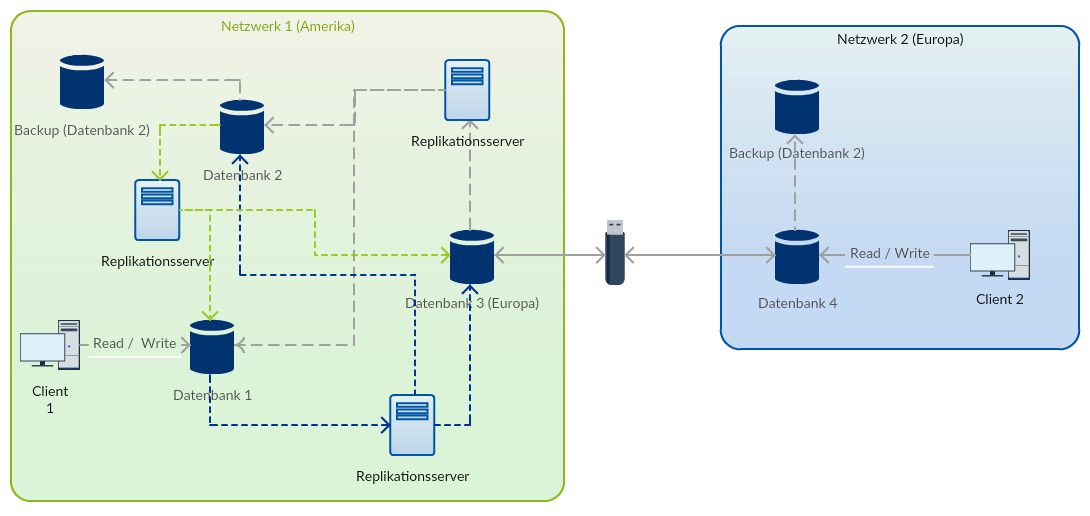
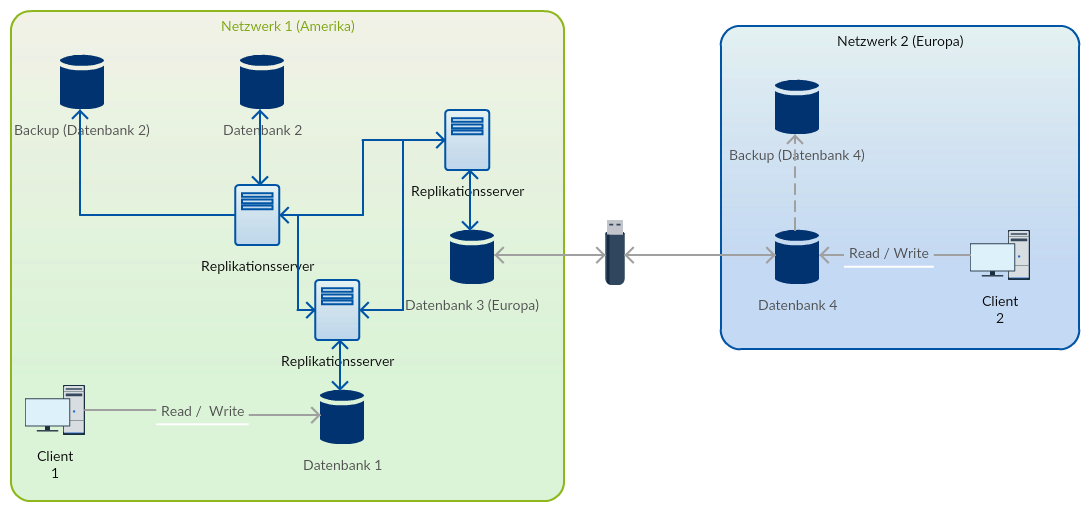
Abgabe Suttrup

diff --git a/Replikationsstrategien in RDBMS sut/05_asynchronous_replication.md b/Replikationsstrategien in RDBMS sut/05_asynchronous_replication.md
@@ -1,60 +1,63 @@
 # Asynchrone Replikation
 
-geringere Konsistenzanforderungen 
-
-- Zugriff auf ältere Objektversionen
-- evtl. keine strikte Serialisierung von Änderungen, sondern parallele Änderungen mit nachträglicher Konflikt-Behebung
-
 Bei der **asynchronen Replikation** werden die Daten in eine primäre Datenbank geschrieben und zu einem späteren Zeitpunkt in das Replikat übertragen. Der Latenzzeitraum kann hierbei klein sein (z.B. fünf Minuten), je nach Bedarf kann aber auch ein großer Zeitraum gewählt werden (z.B. täglich). Bei dem Einsatz eines Replikationsservers ist die Latenz idealerweise der Zeitintervall, die das Datenbanksystem braucht um Transaktionslogs zu schreiben (SAP, 2015).
 
-Asynchrone Replikation kann sowohl uni- als auch bidirektional betrieben werden. Die Probleme der bidirektionalen Replikation und verschiedene Lösungsstrategien werden im Kapitel [Bidirektionale Replikation](06_peer_to_peer.md) aufgegriffen.
+**Asynchrone Replikation** kann sowohl uni- als auch bidirektional betrieben werden. Die Probleme der bidirektionalen Replikation und verschiedene Lösungsstrategien werden im Kapitel [Bidirektionale Replikation](06_peer_to_peer.md) aufgegriffen.
 
-**asymmetrisch vs symmetrisch**
+Diese Verfahren können bei geringeren Konsistenzanforderungen eingesetzt werde, da es hier vorkommen kann, dass auf ältere Objektversionen zugegriffen wird. Es kann ebenfalls keine serielle Abarbeitung von Änderungen garantiert werden, weshalb nachträgliche Konflikt-Behebung notwendig sein kann (Rahm, E. 2011).
 
-**jeweils DBMS nennen**
+Es gibt verschiedene Alternativen zum Weiterleiten der Änderungstransaktionen. Die Transaktion kann **so bald wie möglich (ASAP)** oder durch einen Timer verzögert übertragen werden. Bei Einsatz **asymmetrischer** Verfahren kann die Replikation per **Push** oder **Pull** veröffentlicht werden; bei **Push**-Replikation sendet der Master eine Notifikation an die Replikate, während bei der **Pull**-Replikation die Slaves aktiv nach neuen Aktualisierungen fragen.
+
+Man kann ebenfalls zwischen einfachen Replikation, die eine direkte Kopie darstellt, und abgeleiteter Replikation, die die Ergebnisse von SQL-Operationen betrachtet, unterscheiden.
 
 ###Cold Standby
 
-**Cold Standby** ist das einfachste Verfahren und kann meist ohne großen Mehraufwand realisiert werden. Es wird häufig zur Datensicherung (Backup, Replikat 2 in der Abbildung) genutzt. Hierbei kann zu bestimmten Zeitpunkten ein dump (Snapshot) der Datenbank erstellt und in ein Replikat eingespielt werden (Rouse, M. 2015). Diese Strategie nennt sich **snapshot replication** oder **Cold Standby**. Die Übertragung des Snapshots kann z.B. durch FTP oder SSH realisiert werden. Eine Variante dieser Replikationsstrategie ist, dass die Snapshots nur die Änderungen seit dem letzten Update enthalten.
+**Cold Standby** ist das einfachste Verfahren und kann meist ohne großen Mehraufwand realisiert werden. Es wird häufig zur Datensicherung (Backup, Replikat 1 in der Abbildung) genutzt. Hierbei kann zu bestimmten Zeitpunkten ein dump (Snapshot) der Datenbank erstellt und in ein Replikat eingespielt werden. Diese Strategie nennt sich **Snapshot Replication** oder **Cold Standby**. Die Übertragung des Snapshots kann z.B. durch FTP oder SSH realisiert werden. Eine Variante dieser Replikationsstrategie ist, dass die Snapshots nur die Änderungen seit dem letzten Update enthalten (Rouse, M. 2015).
 
-![Asynchrone Replikation](images\Asynchrone Replikation.png)
+![Asynchrone Replikation](images\Cold Standby.png)
 
-*Abbildung 1: Asynchrone Replikation Cold Standby*
+*Abbildung 2: Cold Standby*
 
-Wie in Abbildung 1 zu sehen, kann ein Nutzer auf dem Client 1 lesend und schreibend auf die primäre Datenbank zugreifen. Sind in der Masterdatenbank Daten geändert worden, werden diese an die Replikate übertragen, um einen gleichen Datenbestand zu gewährleisten. Falls Nutzer auf ein Replikat zugreifen können (in der Abbildung bei Replikat 1), sollten diese nur lesende Rechte zugewiesen bekommen, da von den Replikaten keine Synchronisation zum Master erfolgt und auch - je nach Latenzzeitraum - nicht die aktuellen Daten gesehen und bearbeitet werden können.
+Wie in Abbildung 2 zu sehen, kann ein Nutzer auf dem Client 1 lesend und schreibend auf die primäre Datenbank zugreifen. Sind in der Masterdatenbank Daten geändert worden, werden diese an die Replikate übertragen, um einen gleichen Datenbestand zu gewährleisten. Falls Nutzer auf ein Replikat zugreifen können (in der Abbildung bei Replikat 2), sollten diese nur lesende Rechte zugewiesen bekommen, da von den Replikaten keine Synchronisation zum Master erfolgt und auch - je nach Latenzzeitraum - nicht die aktuellen Daten gesehen und bearbeitet werden können. Es ist somit ein **asymmetrisches** Verfahren.
 
 Diese Strategie eignet sich zur Anwendung, wenn nicht an allen Standorten schreibend auf die Datenbank zugegriffen werden muss, oder nur ein Backup erstellt werden soll. Für die initiale Einrichtung eines Replikats bietet sich diese Strategie ebenfalls an (Techopedia, Snapshot).
 
 ###Warm Standby
 
-Eine weitere asynchrone Strategie ist der Einsatz eines Replikationsservers. Dieser liest die von der Datenbank erstellten Transaktionslogs aus und gibt die Transaktionen weiter an die Replikate, was zu einer relativ kleinen Latenz bei minimalen Auswirkungen auf die Performanz des primären Systems führt (SAP, 2015). SAP Sybase nennt diese Art der Replikation **Warm Standby**, da es eine Kompromisslösung zwischen **Cold Standby** und **Hot Standby** (siehe [Synchrone Replikation](05_synchronous_replication.md)) darstellt. Da beim Einsatz dieser Stategie die Transaktionen repliziert werden, wird sie auch **transactional replication** genannt. Gegenüber anderen Verfahren gibt es hierbei den Vorteil, dass außer den SQL-Grundbefehlen *update*, *insert*, *delete* und *alter table* auch Transaktionen repliziert werden können, die nicht den Datenbestand, sondern die Datenbanknutzer betreffen (*stored procedures*, SAP, 2015).
+Eine weitere asynchrone Strategie ist der Einsatz eines Replikationsservers. Dieser liest die von der Datenbank erstellten Transaktionslogs aus und gibt die Transaktionen weiter an die Replikate, was zu einer relativ kleinen Latenz bei minimalen Auswirkungen auf die Performanz des primären Systems führt (SAP, 2015). SAP Sybase nennt diese Art der Replikation **Warm Standby**, da es eine Kompromisslösung zwischen **Cold Standby** und **Hot Standby** ([Synchrone Replikation](05_synchronous_replication.md)) darstellt. Da beim Einsatz dieser Stategie die Transaktionen repliziert werden, wird sie auch **transactional replication** genannt. Gegenüber anderen Verfahren gibt es hierbei den Vorteil, dass außer den SQL-Grundbefehlen *update*, *insert*, *delete* und *alter table* auch Funktionen repliziert werden können (*stored procedures*, SAP, 2015).
 
 ![Warm Standby](images\Warm Standby.png)
 
-*Abbildung 2: Asynchrone Replikation Warm Standby*
+*Abbildung 3: Warm Standby*
 
-Wie in Abbildung 2 zu sehen ist, kann diese Art der Replikation auch bidirektional erfolgen.
+Wie in Abbildung 3 zu sehen ist, kann diese Art der Replikation auch **bidirektional** erfolgen.
 
-**auf Einsatz eingehen**
+Diese Strategie eignet sich für den Einsatz, wenn auf alle Knoten schreibend zugegriffen werden soll und es keine klare Verteilung bei der Häufigkeit der Zugriffe auf ein Replikat gibt. Ausfallsicherheit und Konsistenz sind bei diesem Verfahren sehr hoch.
 
 ### Primary Copy
 
-Bei diesem Verfahren gibt es für jedes Objekt eine Primärkopie. Primärkopien unterschiedlicher Objekte müssen nicht auf demselben Datenbankserver liegen, sie werden dort abgelegt, wo sie am häufigsten bearbeitet und gelesen werden sollen.
+Bei diesem Verfahren gibt es für jedes Objekt eine **Primärkopie**. **Primärkopien **unterschiedlicher Objekte müssen nicht auf demselben Datenbankserver liegen, sie werden dort abgelegt, wo sie am häufigsten bearbeitet und gelesen werden sollen.
 
-![Asynchrone Replikation](images\Asynchrone Replikation.png)
+![Asynchrone Replikation](images\Primary Copy.png)
 
-*Abbildung 3: Asynchrone Replikation Primary Copy*
+*Abbildung 4: Primary Copy*
 
-Wie auf der Abbildung zu sehen ist, kann ein Client an einem beliebigen Knoten lesend und schreibend auf die Datenbanken zugreifen. Bearbeitet ein Nutzer einen Datensatz, wird die Bearbeitung am aktuellen Knoten gespeichert. Liegt hier die Primärkopie, wird der Satz geändert und die Änderung an alle weiteren Replikate geendet. Wurde eine Sekundärkopie bearbeitet, wird die Änderung (ähnlich wie beim **ROWA-Verfahren**) an den Server mit der Primärkopie gesendet, der die Schreibsperren verwaltet. Dieser führt die Änderung synchron mit dem ersten durch und schickt daraufhin die Änderung weiter an alle anderen Replikate. Sind alle Änderungen durchgeführt, gibt der Primary-Copy-Server den Datensatz wieder frei. Dieses Verfahren kann allerdings zu Sperrkonflikten führen.
+Wie auf Abbildung 4 zu sehen ist, kann ein Client an einem beliebigen Knoten lesend und schreibend auf die Datenbanken zugreifen. Bearbeitet ein Nutzer einen Datensatz, wird die Bearbeitung am aktuellen Knoten gespeichert. Liegt hier die **Primärkopie**, wird der Satz geändert und die Änderung an alle weiteren Replikate geendet. Wurde eine **Sekundärkopie** bearbeitet, wird die Änderung zunächst an den Server mit der **Primärkopie** gesendet.
 
-**Ausarbeiten**
+Zur Anforderung der Schreibsperren gibt es nun mehrere Möglichkeiten. Der Knoten, der die Änderung fordert kann, ähnlich wie beim **ROWA**-Verfahren, zunächst von allen Replikaten Änderungssperren angefordert werden. Danach werden allerdings nur der **Primärkopien-Server** und der Server, der die Änderung angefordert hat, synchron aktualisiert. Dies führt zu schnelleren Bearbeitungen von Transaktionen gegenüber dem **ROWA**-Verfahren. Der **Primärkopien-Server** hält daraufhin die angeforderten Änderungssperren, bis alle Replikate aktualisiert sind. Der Vorteil dieser Strategie ist, dass ein beliebiges Replikat angesprochen und gesperrt werden kann, nicht nur der **Primärkopien-Server**. Es können dadurch aber vermehrt Sperrkonflikte auftreten, da die Replikate verzögert aktualisiert werden.
 
-**Insgesamt bestehen mehrere Alternativen bei der Realisierung eines Primary-Copy-Protokolls. Ein Ansatz besteht darin, wie beim ROWA-Protokoll Änderungssperren verteilt bei allen kopienhaltenden Rechnern anzufordern. Am Transaktionsende wird jedoch nur die Primärkopie synchron aktualisiert, so daß eine schnellere Bearbeitung von Änderungstransaktionen als mit dem ROWA-Ansatz erreicht wird. Nach Aktualisierung der Primärkopie geht die Schreibsperre dann quasi in den Besitz des Primary-Copy-Rechners über, der diese bis nach der Aktualisierung der Replikate hält. Das verteilte Sperren aller Kopien bringt den Vorteil mit sich, daß Leser wie im ROWA-Verfahren ein beliebiges Replikat referenzieren (sperren) können, nicht also notwendigerweise die Primärkopie. Die verzögerte Aktualisierung der Replikate kann dafür vermehrte Sperrkonflikte verursachen.**
+Alternativ können die Schreibsperren immer vom **Primärkopien-Server** angefordert werden. Hierbei kann es aber eventuell passieren, dass ein Lesezugriff wegen der Latenz der Aktualisierung auf einen alten Datenstand zugreift.
 
-**Die Alternative zu diesem Ansatz besteht darin, Schreibsperren nur noch zentral beim jeweiligen Primary-Copy-Rechner anzufordern, um den Aufwand verteilter Schreibsperren zu umgehen. Für Leser besteht jetzt jedoch das Problem, daß die lokalen Kopien aufgrund der verzögerten Aktualisierung möglicherweise veraltet sind. Für die Behandlung der Lesezugriffe bestehen im wesentlichen drei Alternativen, die sich dadurch unterscheiden, wo die Objektzugriffe erfolgen und wo die Sperren angefordert werden (zentral beim Primary-Copy-Rechner oder verteilt/lokal):**
+Für Lesezugriffe können ebenfalls mehrere Strategien angewandt werden. Um beim Lesen immer den aktuellsten Datenbestand zu garantieren, können alle Lesetransaktionen immer die **Primärkopie** referenzieren und sperren. Daduch fällt jedoch der Vorteil der schnellen Verfügbarkeit einer lokalen Kopie weg, da diese nicht mehr zum Lesen genutzt wird. Um dies zu erhalten kann der Lesezugriff auf die lokale Kopie erfolgen, die Sperre aber beim **Primärkopien-Server** angefordert werden. Wird die Lesesperre angefordert, kann auch gleichzeitig die Aktualität der referenzierten Kopie geprüft und eventuell auf Aktualisierungen gewartet oder auf andere Kopien ausgewichen werden.
+
+Stattdessen können Lesezugriffe auch ganz lokal verwaltet werden. Dadurch kann die Aktualität und Konsistenz der Daten allerdings nicht gewährleistet sein, da eventuell Transaktionsergebnisse von anderen Knoten betrachtet werden müssten, die noch nicht synchronisiert sind.
+
+Dieses Verfahren kann nur eingesetzt werden, wenn alle Replikate (auf denen geschrieben werden soll) sich im gleichen Netz mit dem **Primärkopien-Server** befinden, da alle Knoten zum Schreiben Zugriff auf diesen Datenbankserver benötigen. Fällt dieser aus, können weitere Schreibzugriffe nicht abgearbeitet werden. In diesem Fall kann ein neuer Server als **Primärkopien-Server** bestimmt werden, der zunächst alle seine Kopien auf den aktuellen Stand bringen muss, falls es noch nicht durchgeführte Aktualisierungen gibt (Rahm, E. 1994).
 
 ### Merge Replikation
 
-https://de.wikipedia.org/wiki/Merge-Replikation
+Durch Einsatz von **Merge Replikation** werden die Datenbestände der Replikate "gemischt". Es ist ein **symmetrisches** Verfahren, bei dem bei der Synchronisation die vorgefallenen Änderungen von jedem Knoten an die anderen gesendet werden. Dies führt zu einer hohen Konfliktanfälligkeit, da ohne weitere Konfigurationen die Transaktionen parallel ausgeführt werden, aber die Performanz und Verfügbarkeit wird gegenüber **synchroner Replikation** verbessert. Die vorkommenden Konflikte und deren Lösungsansätze werden im folgenden Kapitel behandelt.
+
+Diese Strategie ist besonders für den Einsatz in mobilen Datenbank Applikationen geeignet, bei der es bei der Erstellung neuer und Bearbeitung alter Datensätze geringes Konfliktpotential gibt (Rahm, E. 2011).
 
 [Synchrone Replikation](04_synchronous_replication.md) | [Bidirektionale Replikation]((06_peer_to_peer.md))

diff --git a/Replikationsstrategien in RDBMS sut/04_synchronous_replication.md b/Replikationsstrategien in RDBMS sut/04_synchronous_replication.md
@@ -1,13 +1,10 @@
 # Synchrone Replikation
 
-1-Kopien-Äquivalenz: 
+Bei Systemen, die aus Gründen der Ausfallsicherheit einen immer synchronen Datenbestand brauchen, kann synchrone Replikation eingesetzt werden. Hierbei müssen alle Komponenten redundant vorhanden sein, was meist hohe Kosten und hohen Aufwand verursacht (SAP, 2015).
 
-- vollständige Replikationstransparenz: jeder Zugriff liefert jüngsten transaktionskonsistenten Objektzustand 
-- alle Replikate sind wechselseitig konsistent
-- Serialisierung von Änderungen
-- Konsistenz
+Durch **synchrone Replikation** kann eine **1-Kopien-Äquivalenz** erreicht werden, was bedeutet, dass jeder Zugriff (von jedem Knoten) auf die Datenbank den aktuellen Objektzustand liefert. Alle Replikate sind konsistent. Änderungen müssen bei dieser Art der Replikation serialisiert werden, da durch parallele Zugriffe diese Kriterien nicht mehr erfüllt werden können (Rahm, E. 1994).
 
-Bei Systemen, die aus Gründen der Ausfallsicherheit einen immer synchronen Datenbestand brauchen, kann synchrone Replikation eingesetzt werden. Hierbei müssen alle Komponenten redundant vorhanden sein, was meist hohe Kosten und hohen Aufwand verursacht (SAP, 2015). Synchrone Replikation wird auch **Hot Standby** genannt und ist grundsätzlich ein bidirektionales Verfahren, und braucht daher Konfliktlösungsstrategien.
+Synchrone Replikation wird auch **Hot Standby** genannt und ist grundsätzlich ein **bidirektionales** (**symmetrisches**) Verfahren, und braucht daher Konfliktlösungsstrategien.
 
 ![Synchrone Replikation](images\Synchrone Replikation.png)
 
@@ -15,18 +12,24 @@ Bei Systemen, die aus Gründen der Ausfallsicherheit einen immer synchronen Date
 
 ###Read-One-Write-All (ROWA)
 
-Wenn ein Nutzer bei Einsatz dieser Strategie einen Datensatz bearbeitet oder einfügt, wird das Commit (**erläutern**) erst durchgeführt, wenn  alle Datenbanken ein Acknowledgement an die Sendende geschickt haben. Die Transaktion wird somit auf allen Datenbankservern gleichzeitig ausgeführt oder gar nicht. Dies sichert einen immer auf allen Systemen synchronen Datenbestand und dadurch kann bei Ausfall eines Knotens ein anderer direkt mit demselben Datenbestand einesetzt werden.
+Wenn ein Nutzer bei Einsatz dieser Strategie einen Datensatz bearbeitet oder einfügt, wird diese Änderung erst durchgeführt, wenn  alle Datenbanken ein Acknowledgement an die Sendende geschickt haben. Die Transaktion wird somit auf allen Datenbankservern gleichzeitig ausgeführt oder gar nicht. Dies sichert einen immer auf allen Systemen synchronen Datenbestand und dadurch kann bei Ausfall eines Knotens ein anderer direkt mit demselben Datenbestand eingesetzt werden.
 
-Fällt eines der Systeme aus, kann das **ROWA-Verfahren** nicht weiter funktionieren, da nicht alle Acknowledgements empfangen werden können. Einen Abwandlung, das **ROWAA** (Read-One-Write-All-Available), wird verwendet, um nur bei allen tatsächlich verfügbaren Replikate die Daten zu ändern. Zeitweise ausgefallene Datenbankserver werden mittels protokollierten Änderungen nach einem Neustart wieder synchronisiert. Dieses Verfahren braucht allerdings eine zusätzliche Validierung **weiter ausarbeiten** der Systeme, was einen erhöhten Aufwand verursacht.
+Die Performanz hinsichtlich Änderungstransaktionen wird jedoch deutlich von diesem Verfahren beeinflusst. Vor jeder Änderung ist eine Schreibsperre auf allen Kopien gefordert, was zusätzlichen Kommunikationsaufwand bedeuten kann. Alle Knoten sind am Commit-Protokoll beteiligt; wird ein Zwei-Phasen-Commit-Protokoll eingesetzt, werden in Phase 1 die Änderungen an alle Knoten übertragen. Die Änderung wird protokolliert und in der zweiten Phase werden die Replikate aktualisiert und die Sperren feigegeben (Rahm, E. 1994).
 
-Probleme können bei diesem Verfahren auftreten, falls zwischen den Datenbanken zu viel Distanz besteht, da das Acknowledgement nicht schnell genug übertragen werden kann (Rouse,M. 2016). Dieses Verfahren verlangsamt ebenfalls proportional zu der Anzahl der Replikate die Performanz der Schreibfunktion. Es ist also hauptsächlcih für den Einsatz geeignet, wenn es eine geringe Anzahl an Knoten oder Datenänderungen geben soll, und alle verteilten Systeme sich in relativer Nähe zueinander befinden.
+Fällt eines der Systeme aus, kann das **ROWA-Verfahren** nicht weiter funktionieren, da nicht alle Acknowledgements empfangen werden können. Einen Abwandlung, das **ROWAA** (Read-One-Write-All-Available), wird verwendet, um nur bei allen tatsächlich verfügbaren Replikate die Daten zu ändern. Zeitweise ausgefallene Datenbankserver werden mittels protokollierten Änderungen nach einem Neustart wieder synchronisiert. Dieses Verfahren braucht allerdings eine zusätzliche Validierung der Systeme, was einen erhöhten Aufwand verursacht (Rahm, E. 1994).
 
-Diese Strategie eignet sich zum Einsatz, wenn Ausfallsicherheit und Datenkonsistenz die wichtigsten durch Replikation zu erreichenden Kriterien sind.
+Probleme können bei diesem Verfahren auch auftreten, falls zwischen den Datenbanken eine zu große Distanz besteht, da das Acknowledgement nicht schnell genug übertragen werden kann (Rouse,M. 2016).
 
-**Welche DBMS? "Atomare Transaktionen"**
+Dieses Verfahren verlangsamt ebenfalls proportional zu der Anzahl der Replikate die Performanz der Schreibfunktion. Es ist also hauptsächlich für den Einsatz geeignet, wenn es eine geringe Anzahl an Knoten oder Datenänderungen geben soll, und alle verteilten Systeme sich in relativer Nähe zueinander befinden (Wikipedia, 2016). Ausfallsicherheit und Datenkonsistenz sollten die wichtigsten durch Replikation zu erreichenden Kriterien sein und der hohe Mehraufwand muss in Kauf genommen werden können.
 
-**Quellen**
+### Abstimmungsverfahren
 
-**Bearbeitungssperren**
+Bei diesem Verfahren wird per Abstimmung bestimmt, ob ein Replikat geändert wird. Es kann auch auf Lesezugriffe angewendet werden, erhöht dann aber die Kommunikationskosten erheblich.
+
+Werden ungewichtete Stimmen gewertet, ist jeder Knoten gleichberechtigt - kann er gesperrt werden, zählt es als stimme. Wird eine bestimmte Anzahl an Stimmen erreicht, wird die Änderungstransaktion durchgeführt. Die zu erreichende Anzahl an Stimmen kann vorher festgelegt werden (**statisches Quorum**), z.B. muss beim **Majory Voting** die Mehrheit der Replikate sperrbar sein, oder sie kann zur Laufzeit bestimmt werden (**dynamisches Quorum**).
+
+Bei Einsatz von gewichteten Stimmen erhält jeder Knoten eine bestimmte Anzahl an Stimmen.
+
+Das statische Quorum ist hier fehleranfälliger, da es vorkommen kann, dass so viele Knoten ausfallen, dass die bestimmte Anzahl an Stimmen nicht mehr erreicht werden kann. Bei gewichteten Stimmen kann dies schnell der Fall sein, wenn ein System ausfällt, das eine hohe Anzahl an Stimmen hat (Rahm, E. 2011 und Rahm, E. 1994).
 
 [Einleitung](03_introdction.md)|[Asynchrone Replikation]((05_asynchronous_replication.md))

diff --git a/Replikationsstrategien in RDBMS sut/03_introduction.md b/Replikationsstrategien in RDBMS sut/03_introduction.md
@@ -2,7 +2,7 @@
 
 Datenbanken stehen heutzutage im Kern vieler Anwengungen und Systeme. Da diese Datenbanken möglichst immer und von vielen Standorten aus erreichbar sein sollen, bietet es sich an, die Daten an den verschiedenen Standorten zu speichern. Dies nennt man ein **verteiltes Dantenbanksystem**, wobei die verschiedenen Standorte als **Knoten** bezeichnet werden.
 
-Die Methode, **verteilte Datenbanksysteme** zu erstellen und aufrecht zu erhalten nennt sicht **Replikation**. Daten können hiermit an mehreren Knoten gespeichert werden und bleiben auch nach Ausfall einer der Datenbankservern erreichbar. Die Geschwindigkeit der Lesezugriffe kann durch Replikation ebenfalls verbessert werden, da auf eine lokale Kopie zugegriffen wird anstatt auf ein entferntes System. Auch die Überlastung einzelner Datenbankserver kann durch verbesserte Lastbalancierung beim Einsatz von Replikation vermieden werden (Rahm, E. 1994).
+Die Methode, **verteilte Datenbanksysteme** zu erstellen und aufrecht zu erhalten nennt sicht **Replikation**. Daten können hiermit an mehreren Knoten gespeichert werden und bleiben auch nach Ausfall einer der Datenbankservern erreichbar. Die Geschwindigkeit der Lesezugriffe kann durch Replikation ebenfalls verbessert werden, da auf eine lokale Kopie zugegriffen wird anstatt auf ein entferntes System. Auch die Überlastung einzelner Datenbankserver kann durch verbesserte Lastbalancierung beim Einsatz von Replikation vermieden werden (Rahm, E. 1994). Durch Einsatz von Replikation kann aber "ein nicht unerheblicher Mehraufwand beim Design, der Implementierung und der Wartung des Datenbanksystems" (Rahm, E. 2011) entstehen.
 
 Replikation kann grundsätzlich in relationalen und auch nicht relationalen Datenbankmanagementsystemen (**DBMS**) eingesetzt werden. Im Rahmen dieser Arbeit werden verschiedene Replikationsstrategien in relationalen Datenbanken (**RDBMS**) vorgestellt.
 
@@ -10,12 +10,10 @@ Es gibt verschiedene Verfahren und Ansätze, wie Replikation betrieben werden ka
 
 Zunächst wird zwischen **vollständiger** und **Teilreplikation** unterschieden. Bei **vollständiger Replikation** sind alle Daten an allen Knotenpunkten vorhanden (voll-redundant), während bei **Teilreplikation** nur ein Teil der Datenmenge repliziert wird. Diese beiden Arten der Replikation können bei allen aufgeführten Replikationsstrategien angewandt werden, daher werden sie nicht weiter besprochen.
 
-Weiterhin kann Replikation nach bestimmten Zeitschemen kategorisiert werden. Bei der **synchronen Replikation** werden Änderungstransaktionen in allen Knoten gleichzeitig durchgeführt, bei Verwendunger **asynchroner Replikation** wird die Änderung erst gespeichert und später an den anderen Knoten durchgeführt  (ITWissen).
+Weiterhin kann Replikation nach bestimmten Zeitschemen kategorisiert werden. Bei der **synchronen Replikation** werden Änderungstransaktionen in allen Knoten gleichzeitig durchgeführt, bei Verwendunger **asynchroner Replikation** wird die Änderung erst gespeichert und später an den anderen Knoten durchgeführt  (Rahm, E. 2011).
 
 Schließlich gibt es noch die Unterscheidung zwischen **uni-** und **bidirektionaler Replikation**. **Unidirektionale Replikation** ist nach dem **Master/Slave-Prinzip** aufgebaut, besitzt also einen **Primärknoten**, an dem Daten geändert werden können (auch: **asymmetrische Replikation**). Beliebig viele Knoten können lokale Kopien der Daten vorhalten (**Replikate**), die nicht geändert werden dürfen. Wird **bidirektionale Replikation** eingesetzt, können die Daten an allen Knoten geändert werden (auch: **symmetrische Replikation**). Die Synchronisierung kann mittels verschiedener Verfahren erfolgen, die in den folgenden Kapiteln erläutert werden. Hierbei können verschiedene Probleme bei den Datenbeständen auftreten, auf die im Kapitel [Bidirektionale Replikation](06_peer_to_peer.md) weiter eingegangen wird.
 
-**ACID/CAP, Quellen, Zitate**
 
-**Als Replikation (im Zusammenhang mit Datenbanken) wird der Prozess zur mehrfachen Datenspeicherung und Datenpflege in (verteilten) Datenbank- bzw. Informationssystemen bezeichnet. Allerdings entsteht auch ein nicht unerheblicher Mehraufwand beim Design, der Implementierung und der Wartung des Datenbanksystems.**
 
 [Inhaltsverzeichnis](02_toc.md) | [Synchrone Replikation]((04_synchronous_replication.md))

diff --git a/Replikationsstrategien in RDBMS sut/06_peer_to_peer.md b/Replikationsstrategien in RDBMS sut/06_peer_to_peer.md
@@ -28,68 +28,16 @@ Konflikte werden bei den meisten Replikationsverfahren in ein **Error Log** gesc
 
 Zur Lösung der oben genannten Konflikte gibt es verschiedene Ansätze (Oracle, 2007). 
 
+Zunächst können die Replikate mit **Timestamps** versehen werden, durch den die jeweils aktuellste Kopie erkannt werden kann. Mit der Strategie **Latest Timestamp** gewinnt bei Konflikten immer der jüngste Timestamp, während bei **Earliest Timestamp** immer das älteste Replikat gewählt wird.
 
+Wird ein **asymmetrisches Verfahren** eingesetzt, kann festgelegt werden, dass immer das Replikat gewinnt, das sich auf dem Master-Server befindet. Ebenso kann den Knoten eine Priorität zugeordnet werden, die bei der Strategie der **Site Priority** ausgewertet wird und bei der das am Höchsten priorisierte Replikat gewinnt.
 
-Timestamp basierte Verfahren:
+Scheitern alle genannten Verfahren, gibt es die Möglichkeit den Nutzer über den Konflikt zu informieren, damit er manuell gelöst werden kann (**Notice User**).
 
-- „Latest Timestamp“:
+Weiterhin gibt es Attribut- und Spaltenbasierte Konfliktlösungen. Bei den Strategien **Additive** und **Average** wird beispielsweise der Durchschnitt zweier konkurrierender Werte gebildet - die angewandte Formel richtet sich nach der gewählten Stragie. Ähnlich kann der **Maximum** oder **Minimum** Wert gebildet werden.
 
-  Tritt ein Konflikt zwischen zwei Replikaten bei einem Timestamp
-  basierten Replikationsverfahren auf, so wird das Replikat mit dem
-  „jüngeren“ Timestamp gewählt. Diese Strategie ist zwar
-  Problembehaftet, erfüllt aber trotzdem das Konvergenzkriterium.
+Treten Konflikte bei Zugriffen auf Relationen auf, kann der Ansatz der **Priority Group** genutzt werden, bei dem die Spalten der Relation mit Prioritäten versehen werden und anschließend die Spalte mit der höchsten Priorität Zugriff erhält.
 
-- „Earliest Timestamp“:
-
-  Stellt das Gegenteil der „Latest Timestamp“ Methode dar, wählt also
-  das „älteste“ Replikat.
-
-- Master/Slave -„Mastercopy wins“:
-
-  Bei Konflikten gewinnt immer das Replikat auf dem Master-Server,
-  dies kommt häufig beim „Disconnected Computing“ zum Einsatz
-
-- Site Priority“:
-
-  Bei Prioritätsbasierten Konfliktauflösungsverfahren werden nicht alle
-
-  Replikationsstandardorte als gleichberechtigt erachtet. Dies ist meist
-
-  der Fall, wenn ein Standard den Anspruch auf „präzisereërhebt.
-
-- „Notice User“:
-
-  Wird oft als letzte Möglichkeit angesehen, wenn andere Verfahren
-
-  scheitern wird der Nutzer aufgefordert den entstandenen Konflikt
-
-  manuell aufzulösen
-
-Attributbasierte/Spaltenbasierte Konfliktauflösung
-
-- „Additive and Average“: Bei zwei konkurrierenden Werten wird einfach
-
-  der Durchschnitt der beiden gebildet. Je nach dem, ob man „Additive“
-  oder „Average“ verwendet wird dabei auf eine andere Formel
-  zurückgegriffen.
-
-- „Minimum and Maximum“: Bei zwei konkurrierenden Werten wird
-
-  einfach das Minimum, bzw. Maximum der beiden gebildet.
-
-- „Priority Group“: Kommt bei konkurrierenden Zugriffen auf eine
-
-  Relation zum Einsatz. Dabei werden die Spalten der Relation mit
-  Prioritäten versehen, die Spalte mit der höchsten Priorität bekommt
-  als erstes den Zugriff
-
-Referenzkonflikte können durch erneutes Ausführen der fehlerhaften Transaktion, sobald der referenzierte Datensatz vorhanden ist, gelöst werden.
-
-[Voting-Verfahren](https://de.wikipedia.org/w/index.php?title=Voting-Verfahren&action=edit&redlink=1), zum Beispiel [Gewichtetes Votieren](https://de.wikipedia.org/wiki/Gewichtetes_Votieren)
-
-
-* 
+Referenzkonflikte können durch erneutes Ausführen der fehlerhaften Transaktion, sobald der referenzierte Datensatz vorhanden ist, gelöst werden (Adler, Y. 2016).
 
 [Asynchrone Replikation](05_asynchronous_replication.md) | [Fallbeispiel]((07_example.md))
-
-http://www.inf.fu-berlin.de/lehre/SS10/DBS-TA/folien/09-10-TA-Repl-1-1.pdf

diff --git a/Replikationsstrategien in RDBMS sut/07_example.md b/Replikationsstrategien in RDBMS sut/07_example.md
@@ -2,11 +2,11 @@
 
 In diesem Kapitel wird eine Replikationsstrategie betrachtet, die für ein System entwickelt wurde. Es werden die verschiedenen Vorraussetzungen und Anforderungen genannt und die Strategie hergeleitet.
 
-Das Datenbanksystem besteht aus vielen verteilten Knoten, an allen soll geschrieben werden. Die Distanz zwischen den Knoten ist teilweise sehr groß, sie befinden si ch auf verschiedenen Kontinenten. Synchrone Replikation ist hiermit schwierig zu erreichen, trotzdem soll eine möglichst hohe Aktualität an allen verfügbaren Knoten gegeben sein. Abbildung **xx** zeigt vereinfacht den gewünschten Aufbau des Systems.
+Das Datenbanksystem besteht aus vielen verteilten Knoten, an allen soll geschrieben werden. Die Distanz zwischen den Knoten ist teilweise sehr groß, sie befinden si ch auf verschiedenen Kontinenten. Synchrone Replikation ist hiermit schwierig zu erreichen, trotzdem soll eine möglichst hohe Aktualität an allen verfügbaren Knoten gegeben sein. Abbildung 5 zeigt vereinfacht den gewünschten Aufbau des Systems.
 
 *![Systemaufbau](images\Systemaufbau.png)*
 
-*Abbildung xx: Systemaufbau*
+*Abbildung 5: Systemaufbau*
 
 Wie auf der Abbildung zu sehen ist, sind nicht alle Knoten an dasselbe Netz angeschlossen, was den durchgängigen Einsatz eines einzelnen Verfahren erschwert. Insbesondere das **Primary Copy** wird hierdurch ausgeschlossen. Schreibsperren müssen anders als bei den meisten Verfahren üblich verwaltet werden, da kein zentrales System vorhanden ist.
 
@@ -16,10 +16,10 @@ Die Replikationsserver arbeiten mit dem **Warm Standby** Verfahren, bei dem Tran
 
 Für die Datenbankserver außerhalb des Netzes wird die Methode **Cold Standby** genutzt. Hierzu werden die Tabellen aus den Datenbanken als .bcp-Datei exportiert, per Speichermedium in das andere Netz übertragen und dort eingespielt. Beide Verfahren werden bidirektional betrieben. Die folgende Abbildung zeigt den Systemaufbau mit Replikation.
 
-![System mit Replikation](images\System mit Replikation.png)*Abbildung xy: Systemaufbau mit Replikation*
+![System mit Replikation](images\System mit Replikation.png)*Abbildung 6: Systemaufbau mit Replikation*
 
 Damit es keine Synchronisationskonflikte gibt, werden die Schreibsperren inhaltlich in der Datenbank verwaltet. Jeder Datenbankserver erhält eine eigene, eindeutige *Site-ID*, aus dieser die primären Schlüssel der erstellten Daten generiert werden. Dadurch lässt sich sicherstellen, dass kein Primärschlüssel doppelt vergeben wird. Um zu verhindern, dass Daten bearbeitet werden, die eventuell nicht auf aktuellem Stand sind, wird ein sogenannter *Responsible Producer* eingeführt und in den erstellten Datensätzen vermerkt. Nur der *Responsible Producer* kann einen Datensatz direkt ändern, andere können Änderungsvorschläge erstellen, die dem *Reponsible Producer* des originalen Datensatzes nach Synchronisation der Daten vorgelegt werden. Responsible Producer können somit Personen oder Personengruppen sein, die an demselben Standort auf die Datenbank zugreifen.
 
-Zusätzlich werden noch Backupsysteme betrieben, die über Datenbankdumps täglich aktualisiert werden. Dadurch ist das System insgesamt sehr ausfallsicher, der Ausfall eines Knotens beeinflusst auch nicht die Möglichkeit, weiter an den anderen Replikation zu arbeiten. Fällt der Transferknoten zwischen den beiden Netzen aus, kann es allerdings zu größeren Abweichungen in den Datenbeständen kommen.
+Zusätzlich werden noch Backupsysteme betrieben, die über Datenbankdumps täglich aktualisiert werden. Dadurch ist das System insgesamt sehr ausfallsicher, der Ausfall eines Knotens beeinflusst auch nicht die Möglichkeit, weiter an den anderen Replikation zu arbeiten. Fällt der Transferknoten (Datenbank 3) zwischen den beiden Netzen aus, kann es allerdings zu größeren Abweichungen in den Datenbeständen kommen.
 
 [Bidirektionale Replikation](06_peer_to_peer.md) | [Fazit]((08_conclusion.md)) 

diff --git a/Replikationsstrategien in RDBMS sut/09_references.md b/Replikationsstrategien in RDBMS sut/09_references.md
@@ -1,45 +1,23 @@
 # Literatur
 
-ITWissen: Replikation. URL:http://www.itwissen.info/Replikation-replication.html
+Adler, Y. (2016): Replikation in Datenbanken. Präsentation. URL: http://docplayer.org/1501640-Replikation-in-datenbanken.html
 
-Oracle (2007): Oracle Database Advanced Replication 10g Release 2 (10.2). URL: https://docs.oracle.com/cd/B19306_01/server.102/b14226/preface.htm#CIADDCEJ
+Oracle (2007): Oracle Database Advanced Replication 10g Release 2 (10.2). Handbuch. URL: https://docs.oracle.com/cd/B19306_01/server.102/b14226/preface.htm#CIADDCEJ
 
-Rahm, E. (1994): Mehrrechner-Datenbanksysteme (Kapitel 9 Replizierte Datenbanken).  ISBN: 3-89319-702-8. URL: https://dbs.uni-leipzig.de/buecher/mrdbs/mrdbs-91.html
+Rahm, E. (1994): Mehrrechner-Datenbanksysteme (Kapitel 9 Replizierte Datenbanken). Buch.  ISBN: 3-89319-702-8. URL: https://dbs.uni-leipzig.de/buecher/mrdbs/mrdbs-91.html
 
-Rouse, M. (2015): Asynchronous Replication. URL:http://searchdatabackup.techtarget.com/definition/asynchronous-replication
+Rahm, E. (2011): Replizierte Datenbanken. Präsentation. URL: https://dbs.uni-leipzig.de/file/mrdbs-ws11-kap7.pdf
 
-Rouse, M. (2016): Synchronous Replication. URL:http://searchdisasterrecovery.techtarget.com/definition/synchronous-replication
+Rouse, M. (2015): Asynchronous Replication. Online-Artikel. URL: http://searchdatabackup.techtarget.com/definition/asynchronous-replication
 
-SAP (2015): EDB377 Fast Track to SAP Replication Server Administration  - Participant Handbook. (keine ISBN vorhanden
+Rouse, M. (2016): Synchronous Replication. Online-Artikel. URL: http://searchdisasterrecovery.techtarget.com/definition/synchronous-replication
 
-Techopedia: What is Snapshot Replication? URL: https://www.techopedia.com/definition/24441/snapshot-replication
+SAP (2015): EDB377 Fast Track to SAP Replication Server Administration  - Participant Handbook. Handbuch. (keine ISBN vorhanden)
+
+Techopedia: What is Snapshot Replication? Online-Artikel. URL: https://www.techopedia.com/definition/24441/snapshot-replication
+
+Wikipedia (2016): ROWA-Verfahren. Online-Artikel. URL: https://de.wikipedia.org/wiki/ROWA-Verfahren
 
 
-
-**Zitate einbringen**
-
-**Abbildungen ändern**
-
-http://docplayer.org/1501640-Replikation-in-datenbanken.html
 
 [Fazit](08_conclusion.md)
-
-
-
-https://en.wikipedia.org/wiki/Multi-master_replication#Database_Management_Systems
-
-https://de.wikipedia.org/wiki/ROWA-Verfahren
-
-http://pages.cs.wisc.edu/~remzi/Classes/739/Papers/p562-alsberg.pdf
-
-https://dbs.uni-leipzig.de/file/mrdbs-ws11-kap7.pdf
-
-http://infocenter.sybase.com/help/topic/com.sybase.infocenter.dc32580.1550/pdf/design.pdf
-
-http://www.cloudbus.org/papers/DataReplicationInDSChapter2006.pdf
-
-http://www.inf.fu-berlin.de/lehre/SS10/DBS-TA/folien/09-10-TA-Repl-1-1.pdf
-
-http://www.searchenterprisesoftware.de/definition/Datenbankreplikation
-
-http://www.itwissen.info/Replikation-replication.html

diff --git a/Replikationsstrategien in RDBMS sut/08_conclusion.md b/Replikationsstrategien in RDBMS sut/08_conclusion.md
@@ -2,17 +2,14 @@
 
 Die verschiedenen Replikationsverfahren haben Vor- und Nachteile, die man gegeneinander aufwiegen sollte.
 
-| Strategie                | Vorteile                                 | Nachteile                                |
-| :----------------------- | :--------------------------------------- | :--------------------------------------- |
-| Cold Standby             | Geringer Aufwand<br />Kein Einfluss auf Performanz | hohe Latenzzeiten<br />Keine Kompatibilität mit anderen Datenbanken |
-| Warm Standby             | Geringer Einfluss auf Performanz<br />Fehlerresistent<br />Kompatibilität mit verschiedenen DBMS | Latenzzeit hängt von der Netzwerkgeschwindigkeit ab |
-| Primary Copy             |                                          |                                          |
-| Merge Replikation        |                                          |                                          |
-| Hot Standby              | Keine Latenz                             | Hoher Aufwand<br />Hoher Overhead<br />  |
-| Multi-Master Replikation |                                          |                                          |
+| Strategie             | Vorteile                                 | Nachteile                                |
+| :-------------------- | :--------------------------------------- | :--------------------------------------- |
+| Cold Standby          | Geringer Aufwand<br />Kein Einfluss auf Performanz | hohe Latenzzeiten<br />Keine Kompatibilität mit anderen Datenbanken |
+| Warm Standby          | Geringer Einfluss auf Performanz<br />Fehlerresistent<br /> | Latenzzeit hängt von der Netzwerkgeschwindigkeit ab |
+| Primary Copy          | Geringer Einfluss auf Performanz<br />Geringe Latenz | Konflikte bei Ausfall des Primärkopien-Servers |
+| Merge Replikation     | Gut für mobile Anwendungen               | Hohes Konfliktpotential                  |
+| Synchrone Replikation | Keine Latenz<br />Alle Replikate aktuell | Hoher Aufwand<br />Hoher Overhead<br />  |
 
-
-
-Es gibt nicht "das Eine" Verfahren, mit dem man am Besten beraten ist, sondern man sollte situationsbedingt analysieren, was man braucht.
+Wie auch am Beispiel gezeigt, gibt es nicht "das eine" Verfahren, mit dem man am Besten beraten ist, sondern man sollte situationsbedingt analysieren, was man braucht und manchmal eigene geeignete Strategien entwerfen. 
 
 [Fallbeispiel](07_example.md) | [Literaturverzeichnis](09_references.md)

diff --git a/Replikationsstrategien in RDBMS sut/01_title.md b/Replikationsstrategien in RDBMS sut/01_title.md
@@ -5,7 +5,7 @@ In dieser Arbeit werden die verschiedenen Strategien zum Einsatz von Replikation
 
 | Name         | Matrikelnummer | Hochschule              | E-Mail                     |
 | :----------- | :------------- | :---------------------- | :------------------------- |
-| Lina Suttrup |                | Beuth Hochschule Berlin | s70419@beuth-hochschule.de |
+| Lina Suttrup | S8670350       | Beuth Hochschule Berlin | s70419@beuth-hochschule.de |
 
 
 
